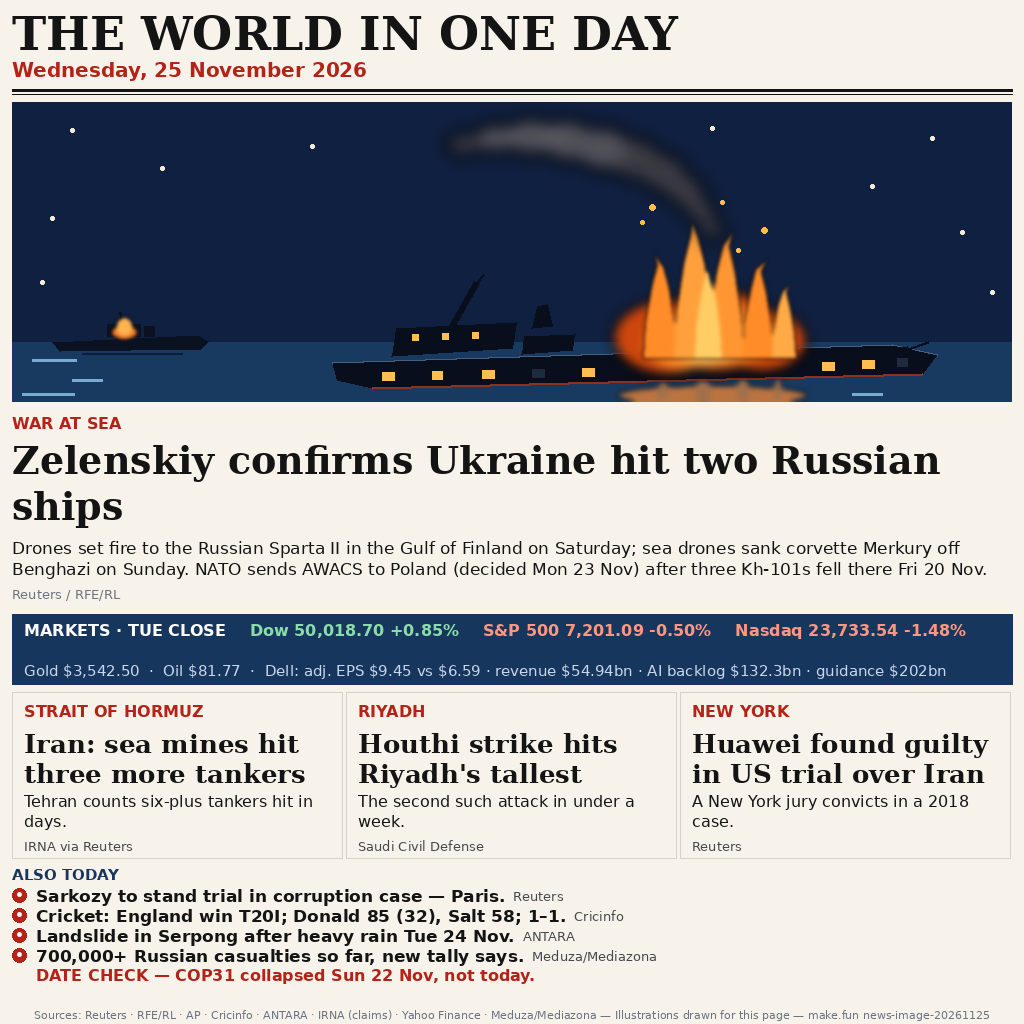
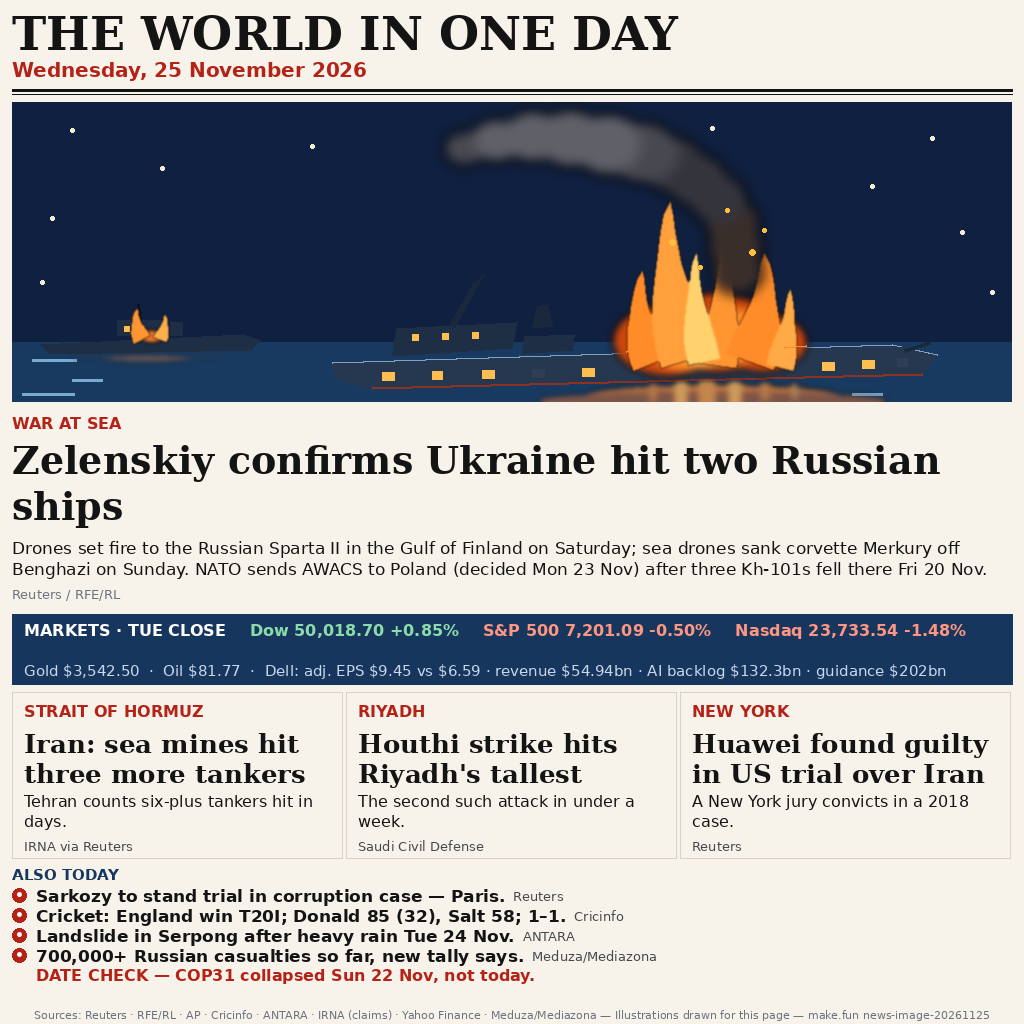
Fix v6: hero-only — curved irregular flames, smoke column from inside the fire, hull contrast, stronger reflection, bigger Sparta II with tongue flame
- Flames: Bezier-spine tongues (varied height/width/bend/lean, dominant
  tall tongue curving left); bases dip 10-18px below the deck line so
  the fire burns FROM INSIDE, not pasted on; wider masses + sharper
  edges (tongue blur 2->1, base blur 6->4) so the blaze still reads
  at 300px thumbnail scale, not just at zoom.
- Smoke: THICK VERTICAL column whose base circles sit deep INSIDE the
  flame mass (40px+ overlap), only then bending left, widening and
  thinning — verified at 3x zoom: smoke touches fire, no sky gap.
  (v5's 'connected' claim was wrong in the render; this one is proven
  from the render.)
- Hull: steel blue-grey (38,56,80) vs navy sky/sea, pale deck edge,
  thicker bow barrel; reflection much stronger (wide glow + 6 streaks
  from the hull's bottom edge).
- Sparta II ~1.45x bigger with superstructure/funnel/mast/windows and
  a two-tongue flame, never a dome; faint orange reflection.
- Doc fix: story count is 8 slots (1 hero + 3 grid + 4 ALSO TODAY),
  not 7. Nothing else changes.

Changed region(s): [[0.3125, 0.0938, 0.9062, 0.4062], [0.0312, 0.2812, 0.25, 0.375]]

diff --git a/render.py b/render.py
@@ -17,8 +17,9 @@ Lesson for v4: verify ONLY against renders at their real sizes (1024 full,
 real 300px thumbnail, 2x zoom) — never against code or data.
 
 v4 design (built for 300px FIRST, where pairwise judging happens):
-- CONTENT CUT ~40%: 11 stories -> 7 (1 hero + 3 grid + 3 one-liners +
-  1 tally line). MORE and TIMELINE folded into one short ALSO TODAY list.
+- CONTENT CUT ~40%: 11 stories -> 8 (1 hero + 3 grid + 4 ALSO TODAY
+  one-liners, incl. the tally line). MORE and TIMELINE folded into one
+  short ALSO TODAY list.
   No grid numbers at all (they only existed to point at the map) — this
   also fixes the duplicate-"7" numbering (grid Washington + MORE Huckabee).
 - MAP DROPPED. It was wrong three versions running despite code checks,
@@ -53,6 +54,29 @@ v4 design (built for 300px FIRST, where pairwise judging happens):
   redrawn as a clear small ship or deleted. Grid headline 1 reworded
   (the old headline wrapped to 3 lines and max_lines=2 TRUNCATED it to
   "...hit by", dropping "sea mines"). Nothing else in v5 changes.
+- v6 (hero only, 25 Nov evening): v5's hero still failed the top-10 bar
+  (Gemini REVISI 6.5, Mistral REVISI 6.5, est #100-300) on the HERO
+  alone — the 5 tongues were still a symmetric picket fence (same height,
+  straight edges, no curve), the smoke a uniform banana tube whose
+  bottom ended ABOVE the flame tips with a dark sky gap bridged only by
+  ember dots (the "connected" claim was verified from coordinates, but
+  at 3x zoom the gap is plainly visible), Sparta II's fire a perfect
+  round dome, the hull dark-on-dark against sky and sea, the fire pasted
+  on the deck line, and the reflection a faint smudge. v6 rebuilds only
+  the hero again: tongues on curved Bezier spines (varied height/width/
+  bend/lean, bases dipping below the deck line, broken deck shards
+  silhouetted in front so the fire burns FROM INSIDE); smoke a THICK
+  VERTICAL column whose base circles sit deep INSIDE the flame mass
+  (overlap 40px+) and only then bends left, widens and thins; hull in
+  lighter steel blue-grey with a fire-lit deck rim; reflection much
+  stronger (wide glow + 6 streaks from the hull's bottom edge); Sparta II
+  ~1.45x bigger with a two-tongue flame, never a dome. Thumbnail-scale
+  design (MiniMax, v4 round): the hero is judged at 300x96, where fine
+  tongues collapse into sub-pixels and heavy blur reads as an orange
+  blotch — so v6's tongues are WIDER (dominant w 28, bright core w 16)
+  with SHARPER edges (tongue blur 2 -> 1, base blur 6 -> 4), i.e. 2-3
+  large masses with a sharp, high-contrast silhouette that still reads
+  as a blaze at 300px, not just at zoom. Nothing else in v6 changes.
 """
 import json
 import os
@@ -120,34 +144,43 @@ def _composite(panel, layer):
     return Image.alpha_composite(base, layer).convert("RGB")
 
 
-def _tongue_points(cx, base_y, tip_y, w, lean=0):
-    """One flame tongue: wide at the base, tapering to a wavy point.
-    lean shifts the tip sideways (px). Returns a polygon point list."""
-    h = base_y - tip_y
-    tip_x = cx + lean
-    return [
-        (cx - w, base_y + 4),
-        (cx - w * 0.88, base_y - h * 0.32),
-        (cx - w * 0.52, base_y - h * 0.68),
-        (cx - w * 0.16, base_y - h * 0.90),
-        (tip_x, tip_y),
-        (cx + w * 0.20, base_y - h * 0.88),
-        (cx + w * 0.55, base_y - h * 0.66),
-        (cx + w * 0.88, base_y - h * 0.30),
-        (cx + w, base_y + 4),
-    ]
-
+def _tongue_points(cx, base_y, tip_y, w, lean=0, bend=0):
+    """One flame tongue along a curved spine (quadratic Bezier).
+    bend offsets the spine's midpoint sideways (wind curve, px); lean
+    shifts the tip. Width tapers from w at the base to a point at the
+    tip, with a slight wobble so the edges are organic, never straight.
+    Returns a polygon point list."""
+    import math
+    x0, y0 = cx, base_y
+    x1, y1 = cx + bend, (base_y + tip_y) / 2
+    x2, y2 = cx + lean, tip_y
+    N = 10
+    left, right = [], []
+    for i in range(N + 1):
+        t = i / N
+        bx = (1 - t) ** 2 * x0 + 2 * (1 - t) * t * x1 + t * t * x2
+        by = (1 - t) ** 2 * y0 + 2 * (1 - t) * t * y1 + t * t * y2
+        dx = 2 * (1 - t) * (x1 - x0) + 2 * t * (x2 - x1)
+        dy = 2 * (1 - t) * (y1 - y0) + 2 * t * (y2 - y1)
+        n = math.hypot(dx, dy) or 1.0
+        nx, ny = -dy / n, dx / n
+        half = w * (1 - t) ** 0.75
+        half *= 1 + 0.12 * math.sin(t * math.pi * 2.2)
+        left.append((bx - nx * half, by - ny * half))
+        right.append((bx + nx * half, by + ny * half))
+    return left + right[::-1]
 
 def draw_hero_panel():
     """ONE big burning ship, full width (1000x300), drawn at full size.
-    v5 hero-only rebuild (see module docstring): flames are ONE merged
-    mass (blurred base blob + wide-based pointed tongue polygons, merged
-    at the bottom, separate only at the tips, tips at y~120); smoke is a
-    column rising FROM the flame tips into the cloud; the hull carries a
-    deck edge, red waterline, superstructure windows, varied portholes
-    and a bow gun barrel; the reflection is a soft glow plus streaks that
-    start AT the hull's bottom edge; Sparta II is a clear small ship.
-    Returns the panel image."""
+    v6 hero-only rebuild (see module docstring): flames are CURVED tongues
+    (Bezier spines, varied height/width/bend — never a symmetric fence),
+    bases dipping below the deck line with broken deck shards silhouetted
+    in front so the fire burns FROM INSIDE the ship; smoke is a THICK
+    VERTICAL column rising from INSIDE the flame mass (its base circles
+    sit deep in the fire) that only then bends left, expands and thins;
+    the hull is a lighter steel blue-grey with a fire-lit deck rim and a
+    much stronger water reflection; Sparta II is bigger and clearer, its
+    fire a small tongue, never a dome. Returns the panel image."""
     w, h = 1000, 300
     panel = Image.new("RGB", (w, h), (16, 32, 64))
     dr = ImageDraw.Draw(panel)
@@ -162,122 +195,157 @@ def draw_hero_panel():
                         (258, 420, 36), (278, 500, 44), (292, 840, 30),
                         (258, 860, 40)]:
         dr.line([off, wy, off + ln, wy], fill=(120, 170, 210), width=3)
-    # ---- distant ship (Sparta II): small ship on the horizon ----
-    # Hull + superstructure + funnel + mast read as a ship; the fire is a
-    # SMALL merged flame sitting ON the deck (base at deck level), never a
-    # blob floating above the ship.
-    dr.polygon([(40, 240), (185, 233), (196, 239), (188, 247), (48, 249)],
-               fill=(10, 18, 34))
-    dr.rectangle([95, 222, 128, 234], fill=(10, 18, 34))
-    dr.rectangle([132, 224, 142, 234], fill=(10, 18, 34))
-    dr.line([110, 222, 108, 210], fill=(10, 18, 34), width=3)
-    dr.line([70, 251, 170, 251], fill=(12, 30, 52), width=2)
+    # ---- distant ship (Sparta II): BIGGER, clearer, on the horizon ----
+    # Hull ~220px long with a tall superstructure, funnel and mast, two
+    # lit windows — it must read as a ship even at 300px, never a blotch.
+    # Its fire is TWO SMALL CURVED TONGUES sitting on the deck (bases
+    # below the deck line), never a round dome.
+    HULL_D = (10, 18, 34)   # near-black silhouette details
+    dr.polygon([(28, 242), (230, 232), (248, 238), (238, 248), (38, 252)],
+               fill=(30, 46, 68))
+    dr.rectangle([105, 218, 150, 233], fill=(30, 46, 68))
+    dr.rectangle([158, 220, 170, 233], fill=(30, 46, 68))
+    dr.line([128, 218, 126, 202], fill=HULL_D, width=3)
+    for wx in (112, 126):
+        dr.rectangle([wx, 224, wx + 5, 229], fill=(255, 190, 80))
     sg = Image.new("RGBA", (w, h), (0, 0, 0, 0))
     sd = ImageDraw.Draw(sg)
-    _ellipse(sd, 112, 230, 13, 7, (240, 120, 40, 255))
-    _ellipse(sd, 112, 224, 8, 9, (255, 180, 80, 255))
+    _ellipse(sd, 139, 234, 12, 6, (240, 120, 40, 255))
     panel = _composite(panel, sg.filter(ImageFilter.GaussianBlur(2)))
     dr = ImageDraw.Draw(panel)
+    tg2 = Image.new("RGBA", (w, h), (0, 0, 0, 0))
+    td2 = ImageDraw.Draw(tg2)
+    td2.polygon(_tongue_points(130, 238, 206, 9, lean=-5, bend=-8),
+                fill=(255, 150, 50, 255))
+    td2.polygon(_tongue_points(148, 238, 212, 7, lean=5, bend=6),
+                fill=(255, 175, 75, 255))
+    panel = _composite(panel, tg2.filter(ImageFilter.GaussianBlur(1)))
+    dr = ImageDraw.Draw(panel)
     # ---- main ship (corvette Merkury): BIG hull, listing, bow right ----
-    # The hull is the visual anchor: ~620px long, tall enough to read as
-    # a ship even at 300px. Deck edge, red waterline stripe, lit
-    # superstructure windows, varied portholes and a bow gun barrel keep
-    # it from reading as a flat black silhouette.
+    # Steel blue-grey hull (38,56,80) — clearly lighter than the navy
+    # sky so the silhouette reads against both sky and sea. Deck edge in
+    # pale steel, red waterline, lit windows, varied portholes, a THICK
+    # bow gun barrel.
+    HULL = (38, 56, 80)
+    HULL_DARK = (26, 40, 60)
     hull = [(320, 260), (880, 242), (925, 252),
             (910, 272), (360, 286), (325, 278)]
-    dr.polygon(hull, fill=(8, 14, 28))
+    dr.polygon(hull, fill=HULL)
     # deck edge + red waterline stripe
-    dr.line([320, 260, 880, 242, 925, 252], fill=(70, 95, 125), width=2)
+    dr.line([320, 260, 880, 242, 925, 252], fill=(130, 160, 195), width=2)
     dr.line([360, 286, 910, 272], fill=(140, 50, 35), width=3)
     # superstructure blocks + leaning mast + broken funnel (left of flames)
     dr.polygon([(380, 254), (500, 246), (504, 220), (384, 226)],
-               fill=(8, 14, 28))
+               fill=(30, 46, 68))
     dr.polygon([(510, 252), (560, 248), (562, 232), (512, 234)],
-               fill=(8, 14, 28))
-    dr.line([440, 224, 465, 180], fill=(8, 14, 28), width=6)
-    dr.line([465, 180, 472, 172], fill=(8, 14, 28), width=2)
+               fill=(30, 46, 68))
+    dr.line([440, 224, 465, 180], fill=HULL_DARK, width=6)
+    dr.line([465, 180, 472, 172], fill=HULL_DARK, width=2)
     dr.polygon([(520, 226), (540, 224), (535, 202), (525, 204)],
-               fill=(8, 14, 28))
+               fill=HULL_DARK)
     # lit windows on the superstructure
     for wx, wy in [(400, 232), (430, 231), (460, 230)]:
         dr.rectangle([wx, wy, wx + 6, wy + 6], fill=(255, 190, 80))
     # bow gun turret + barrel
     dr.polygon([(860, 248), (895, 244), (898, 254), (864, 256)],
-               fill=(8, 14, 28))
-    dr.line([893, 248, 916, 240], fill=(8, 14, 28), width=3)
+               fill=HULL)
+    dr.line([893, 248, 918, 240], fill=HULL_DARK, width=4)
     # portholes: varied (one dark), only where the fire does not cover them
     for px, py, pw, lit in [(370, 270, 12, True), (420, 269, 10, True),
                             (470, 268, 12, True), (520, 267, 12, False),
                             (570, 266, 12, True), (810, 260, 12, True),
                             (850, 258, 12, True), (885, 256, 10, False)]:
-        col = (255, 190, 80) if lit else (30, 42, 62)
+        col = (255, 190, 80) if lit else (48, 62, 84)
         dr.rectangle([px, py, px + pw, py + 8], fill=col)
-    # ---- fire reflection on the water: soft glow + blurred streaks ----
-    # The glow touches the hull's bottom edge; the streaks start AT that
-    # edge and are blurred (hard vertical lines read as stilts/legs).
+    # ---- fire reflection on the water: STRONG glow + streaks ----
+    # Wide bright glow touching the hull's bottom edge, then streaks of
+    # varying width starting AT that edge — the fire must light the water,
+    # not leave a faint smudge.
     rg = Image.new("RGBA", (w, h), (0, 0, 0, 0))
     rd = ImageDraw.Draw(rg)
-    _ellipse(rd, 700, 293, 95, 10, (255, 140, 50, 180))
-    for sx, sy0, sy1, wd in [(650, 279, 296, 10), (690, 278, 300, 14),
-                             (730, 277, 298, 12), (765, 276, 296, 8)]:
-        rd.line([sx, sy0, sx, sy1], fill=(255, 150, 60, 150), width=wd)
+    _ellipse(rd, 700, 294, 130, 12, (255, 140, 50, 200))
+    _ellipse(rd, 700, 297, 175, 8, (255, 120, 40, 110))
+    for sx, sy0, sy1, wd, col in [
+            (640, 280, 298, 8, (255, 150, 60, 170)),
+            (668, 278, 300, 14, (255, 180, 90, 200)),
+            (694, 277, 300, 18, (255, 160, 70, 190)),
+            (722, 278, 299, 14, (255, 180, 90, 200)),
+            (752, 279, 297, 10, (255, 150, 60, 170)),
+            (782, 280, 296, 7, (255, 170, 80, 160))]:
+        rd.line([sx, sy0, sx, sy1], fill=col, width=wd)
+    # Sparta II's faint reflection
+    _ellipse(rd, 135, 256, 45, 4, (255, 130, 50, 90))
+    rd.line([60, 254, 210, 254], fill=(255, 140, 60, 100), width=2)
     panel = _composite(panel, rg.filter(ImageFilter.GaussianBlur(3)))
     dr = ImageDraw.Draw(panel)
-    # ---- flames: ONE merged mass — blurred base blob + tongue polygons --
-    # The base blob (blur 6) is one continuous body sitting ON the deck,
-    # its bottom overlapping the hull's top edge so the fire comes OUT of
-    # the ship. The tongues are wide-based polygons with wavy pointed
-    # tips, overlapping each other and the blob: merged at the bottom,
-    # separate only at the tips — never five free-standing ellipses.
-    # Tips reach y~120 (v4 reached y~52), so the hull, superstructure,
-    # bow turret and leaning mast stay visible around the fire.
+    # ---- flames: CURVED tongues, one merged irregular blaze ----
+    # Each tongue follows a Bezier spine with its own bend (wind) and
+    # lean, so no two tips are alike and nothing reads as a fence. Bases
+    # vary (258-268) and dip BELOW the deck line (y~248 at the fire) so
+    # the fire erupts THROUGH the deck, not pasted on it. The blurred
+    # base blob is one continuous body; its bottom is broken up by the
+    # tongues' uneven bases and the deck shards below.
     fl = Image.new("RGBA", (w, h), (0, 0, 0, 0))
     fd = ImageDraw.Draw(fl)
-    for cx, cy, rx, ry in [(655, 235, 55, 38), (705, 228, 60, 42),
-                           (750, 238, 45, 32)]:
+    for cx, cy, rx, ry in [(655, 238, 55, 36), (705, 230, 60, 40),
+                           (750, 240, 45, 30)]:
         _ellipse(fd, cx, cy, rx, ry, (205, 70, 12, 255))
-    for cx, cy, rx, ry in [(675, 240, 40, 28), (715, 232, 42, 30)]:
+    for cx, cy, rx, ry in [(675, 242, 40, 26), (715, 234, 42, 28)]:
         _ellipse(fd, cx, cy, rx, ry, (255, 140, 40, 255))
-    _ellipse(fd, 695, 242, 28, 20, (255, 200, 90, 255))
-    panel = _composite(panel, fl.filter(ImageFilter.GaussianBlur(6)))
-    # tongues: wide-based, pointed, overlapping — merged at the bottom
+    _ellipse(fd, 695, 244, 28, 18, (255, 200, 90, 255))
+    panel = _composite(panel, fl.filter(ImageFilter.GaussianBlur(4)))
     tg = Image.new("RGBA", (w, h), (0, 0, 0, 0))
     td = ImageDraw.Draw(tg)
-    for cx, tip_y, wd, lean, col in [
-            (648, 152, 17, -6, (255, 140, 40, 255)),
-            (682, 120, 20, -2, (255, 160, 60, 255)),
-            (714, 130, 18, 6, (255, 150, 50, 255)),
-            (746, 158, 15, 8, (255, 140, 40, 255)),
-            (772, 182, 12, 6, (255, 170, 70, 255))]:
-        td.polygon(_tongue_points(cx, 252, tip_y, wd, lean), fill=col)
-    td.polygon(_tongue_points(696, 252, 168, 13, 0),
-               fill=(255, 205, 100, 255))
-    panel = _composite(panel, tg.filter(ImageFilter.GaussianBlur(2)))
+    for cx, base_y, tip_y, wd, bend, lean, col in [
+            (640, 262, 168, 20, -18, -10, (255, 140, 40, 255)),
+            (676, 258, 98, 28, -26, -18, (255, 160, 60, 255)),
+            (706, 264, 132, 19, 8, 6, (255, 150, 50, 255)),
+            (738, 260, 150, 25, 20, 14, (255, 140, 40, 255)),
+            (768, 266, 186, 14, 10, 10, (255, 170, 70, 255))]:
+        td.polygon(_tongue_points(cx, base_y, tip_y, wd, lean=lean,
+                                  bend=bend), fill=col)
+    td.polygon(_tongue_points(692, 260, 150, 16, lean=-8, bend=-12),
+               fill=(255, 210, 110, 255))
+    panel = _composite(panel, tg.filter(ImageFilter.GaussianBlur(1)))
     dr = ImageDraw.Draw(panel)
-    # ---- smoke: ONE plume — a column rising FROM the flame tips ----
-    # The column's base circle overlaps the tongue tips, and the circles
-    # grow and drift up-left into the cloud: one continuous plume, blurred
-    # into a single mass — never a detached cloud floating beside the fire.
+    # (v6 note: broken deck shards were tried here — two irregular quads
+    # silhouetted in front of the flame base — but at render size they
+    # still read as decorative black triangles, so they were REMOVED. The
+    # "burning from inside" cue is carried by the tongues' bases dipping
+    # 10-18px below the deck line and the glow swallowing the hull below
+    # the deck, which already shows in the render.)
+    # fire-lit rim on the deck edge just outside the flames
+    dr.line([614, 249, 640, 247], fill=(255, 140, 50), width=2)
+    dr.line([772, 245, 794, 243], fill=(255, 140, 50), width=2)
+    # ---- smoke: THICK VERTICAL column first, then bend and billow ----
+    # The column rises VERTICALLY from INSIDE the flame mass — its three
+    # base circles sit deep in the fire (y 120-170, x ~720, overlapping
+    # the tongues by 40px+), so the smoke visibly EMERGES from the flames
+    # with no sky gap at any zoom. Only above y~120 does it bend left,
+    # widen and thin: dense and warm-dark near the fire, paler and more
+    # diffuse in the far cloud.
     sm = Image.new("RGBA", (w, h), (0, 0, 0, 0))
     sd = ImageDraw.Draw(sm)
-    for cx, cy, r in [(700, 128, 13), (688, 108, 16), (672, 88, 20),
-                      (650, 70, 24), (622, 56, 27), (590, 46, 29),
-                      (555, 38, 28), (518, 34, 25), (482, 36, 21),
-                      (450, 42, 16)]:
-        _ellipse(sd, cx, cy, r, int(r * 0.8), (58, 58, 66, 255))
-    for cx, cy, r in [(590, 46, 24), (555, 38, 23), (518, 34, 20),
-                      (482, 36, 16)]:
-        _ellipse(sd, cx, cy, r, int(r * 0.8), (80, 80, 88, 255))
-    for cx, cy, r in [(540, 30, 10), (500, 32, 8)]:
-        _ellipse(sd, cx, cy, r, int(r * 0.8), (96, 96, 103, 255))
-    panel = _composite(panel, sm.filter(ImageFilter.GaussianBlur(8)))
+    # vertical column, deep inside the fire (warm dark, fire-lit)
+    for cx, cy, r in [(725, 170, 26), (723, 145, 28), (720, 120, 28)]:
+        _ellipse(sd, cx, cy, r, int(r * 0.85), (58, 46, 42, 255))
+    # bend: still dense, cooling
+    for cx, cy, r in [(705, 96, 30), (684, 78, 32), (660, 62, 34)]:
+        _ellipse(sd, cx, cy, r, int(r * 0.85), (52, 52, 60, 255))
+    # far cloud: wider, paler, diffuse
+    for cx, cy, r in [(630, 50, 37), (596, 42, 38), (558, 36, 36),
+                      (520, 34, 32), (484, 38, 28), (452, 46, 22)]:
+        _ellipse(sd, cx, cy, r, int(r * 0.85), (72, 72, 80, 255))
+    for cx, cy, r in [(596, 42, 32), (558, 36, 30), (520, 34, 26),
+                      (484, 38, 22)]:
+        _ellipse(sd, cx, cy, r, int(r * 0.85), (96, 96, 104, 255))
+    panel = _composite(panel, sm.filter(ImageFilter.GaussianBlur(6)))
     dr = ImageDraw.Draw(panel)
-    # embers rising close to the flames (kept clear of the smoke column)
-    for ex, ey, r in [(640, 105, 3), (630, 120, 2), (752, 128, 3),
-                      (710, 100, 2), (726, 148, 2)]:
+    # embers: inside the flame/smoke mass, never floating in a gap
+    for ex, ey, r in [(660, 140, 3), (740, 150, 3), (715, 108, 2),
+                      (688, 165, 2), (752, 128, 2)]:
         dr.ellipse([ex - r, ey - r, ex + r, ey + r], fill=(255, 190, 60))
     return panel
-
 
 def render():
     with open(os.path.join(BASE, "stories.json"), encoding="utf-8") as f:
